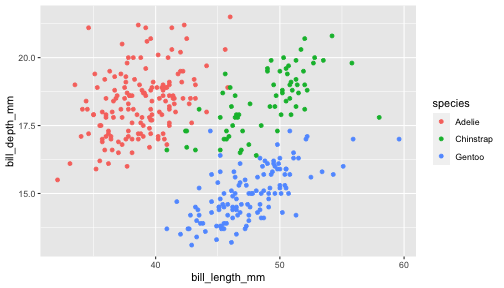
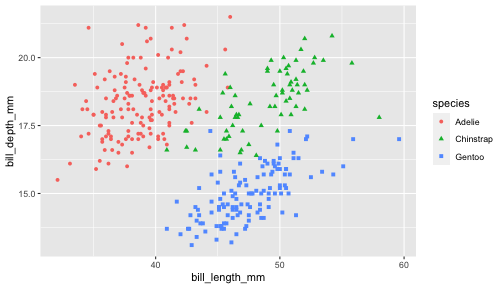
editing lecture 2 material

diff --git a/slides/lecture_2.html b/slides/lecture_2.html
@@ -19,9 +19,11 @@ class: center, middle, inverse, title-slide
 
 ## Agenda
 
+.large[
 * Overview of exploratory data analysis
 * Introduction to R and RStudio
 * Class activity: penguins!
+]
 
 ---
 
@@ -41,9 +43,11 @@ class: center, middle, inverse, title-slide
 
 --
 
+.large[
 *Understanding*:
 * Not a linear process
 * Begins with *exploratory data analysis*
+]
 
 ---
 
@@ -53,6 +57,7 @@ class: center, middle, inverse, title-slide
 &lt;img src="whole_game_highlight_understanding.png" width="500"&gt;
 ]
 
+.large[
 Goal: get familiar with the data
 
 * What does the data represent?
@@ -61,6 +66,7 @@ Goal: get familiar with the data
     * Where and when was it collected?
     * Who collected it, and what choices did they make?
     * Etc.
+]
 
 ---
 
@@ -70,11 +76,13 @@ Goal: get familiar with the data
 &lt;img src="whole_game_highlight_understanding.png" width="500"&gt;
 ]
 
+.large[
 Goal: get familiar with the data
 
 * What do the variables look like? (univariate EDA)
     * histograms, frequency tables, summary statistics, etc.
     * any outliers?
+]
     
 ---
 
@@ -84,10 +92,12 @@ Goal: get familiar with the data
 &lt;img src="whole_game_highlight_understanding.png" width="500"&gt;
 ]
 
+.large[
 Goal: get familiar with the data
 
 * How are the variables related? (multivariate EDA)
     * two-way tables, scatterplots, boxplots, etc.
+]
     
 ---
     
@@ -97,24 +107,28 @@ Goal: get familiar with the data
 &lt;img src="whole_game_highlight_understanding.png" width="500"&gt;
 ]
 
+.large[
 Goal: get familiar with the data
 
 * What relationships might we want to model?
     * generally informed by *why* we're looking at the data
+]
     
 ---
 
 ## Data: Penguins!
 
+.large[
 Data on 344 penguins from 3 species (Adelie, Chinstrap, Gentoo). Variables include
 
 * Species
 * Bill length
 * Bill depth
 * ...
+]
 
 .center[
-&lt;img src="penguin_art.png" width="500"&gt;
+&lt;img src="penguin_art.png" width="400"&gt;
 ]
 
 .footnote[
@@ -125,90 +139,104 @@ Artwork by @allison_horst
 
 ## Concept check
 
+.large[
 *Bill length* is a quantitative variable. What plot could we use to visualize the distribution of bill length in the penguins dataset?
 
 .abox[ 
-Scatterplot
+(A) Scatterplot
 ]
 
 .bbox[
-Histogram
+(B) Histogram
 ]
 
 .cbox[
-Bar chart
+(C) Bar chart
 ]
 
 .dbox[
-Pie chart
+(D) Pie chart
+]
 ]
 
 --
 
+.large[
 **Answer:** A histogram is a good choice for visualizing the distribution of a single quantitative variable.
+]
 
 ---
 
 ## Concept check
 
+.large[
 *Species* is a categorical variable. What plot could we use to visualize the distribution of species in the penguins dataset?
 
 .abox[ 
-Scatterplot
+(A) Scatterplot
 ]
 
 .bbox[
-Histogram
+(B) Histogram
 ]
 
 .cbox[
-Bar chart
+(C) Bar chart
 ]
 
 .dbox[
-Pie chart
+(D) Pie chart
+]
 ]
 
 --
 
+.large[
 **Answer:** A bar chart is a good choice for visualizing the distribution of a single categorical variable. Pie charts also work, but I find them harder to read.
+]
 
 ---
 
 ## Concept check
 
+.large[
 *Bill length* and *bill depth* are both quantitative variables. What plot could we use to visualize the relationship between these two variables?
 
 .abox[ 
-Scatterplot
+(A) Scatterplot
 ]
 
 .bbox[
-Histogram
+(B) Histogram
 ]
 
 .cbox[
-Bar chart
+(C) Bar chart
 ]
 
 .dbox[
-Box plots
+(D) Box plots
+]
 ]
 
 --
 
+.large[
 **Answer:** A scatterplot shows the relationship between two quantitative variables.
+]
 
 ---
 
 ## Tools for working with data
 
+.large[
 **R:** Statistical software for data manipulation, visualization, computing, modeling
 
 **RStudio:** Integrated development environment (IDE) that makes it easy to use R
+]
 
 .center[
-&lt;img src="r_vs_rstudio_engine_dashboard.png" width="700"&gt;
+&lt;img src="r_vs_rstudio_engine_dashboard.png" width="600"&gt;
 ]
 
 .footnote[
@@ -243,7 +271,9 @@ Source: [Modern Dive](https://moderndive.com/index.html)
 
 ## Class activity: EDA with penguins
 
+.large[
 [https://sta112-s22.github.io/class_activities/ca_lecture2.html](https://sta112-s22.github.io/class_activities/ca_lecture2.html)
+]
 
 .center[
 &lt;img src="penguin_art.png" width="600"&gt;
@@ -259,6 +289,7 @@ Artwork by @allison_horst
 
 ## Distribution of bill length
 
+.large[
 
 ```r
 penguins %&gt;%
@@ -267,6 +298,7 @@ penguins %&gt;%
 ```
 
 ![](lecture_2_files/figure-html/unnamed-chunk-1-1.png)&lt;!-- --&gt;
+]
 
 ---
 
@@ -274,14 +306,17 @@ penguins %&gt;%
 
 ![](lecture_2_files/figure-html/unnamed-chunk-2-1.png)&lt;!-- --&gt;
 
+.large[
 * Most bill lengths between 35mm and 55mm
 * Multimodal, with peaks around 40mm, 45mm, and 50mm
 * Fairly symmetric, no clear outliers
+]
 
 ---
 
 ## Aside: changing the number of bins
 
+.large[
 
 ```r
 penguins %&gt;%
@@ -289,14 +324,14 @@ penguins %&gt;%
   geom_histogram(bins = 20)
 ```
 
-![](lecture_2_files/figure-html/unnamed-chunk-3-1.png)&lt;!-- --&gt;
-
 When making histograms, it is good to try different numbers of bins. The default in `geom_histogram` is 30, but can be changed with `bins = ...`
+]
 
 ---
 
 ## Bill depth vs. bill length
 
+.large[
 
 ```r
 penguins %&gt;%
@@ -305,14 +340,17 @@ penguins %&gt;%
 ```
 
 ![](lecture_2_files/figure-html/unnamed-chunk-4-1.png)&lt;!-- --&gt;
+]
 
 ---
 
 ## Bill depth vs. bill length
 
+.large[
 ![](lecture_2_files/figure-html/unnamed-chunk-5-1.png)&lt;!-- --&gt;
 
 * There does not appear to be a relationship between bill length and bill depth
+]
 
 ---
 
@@ -322,13 +360,15 @@ penguins %&gt;%
 ```r
 penguins %&gt;%
   ggplot(aes(x = bill_length_mm, y = bill_depth_mm, 
-             color = species)) +
+             color = species, shape=species)) +
   geom_point()
 ```
 
 ![](lecture_2_files/figure-html/unnamed-chunk-6-1.png)&lt;!-- --&gt;
 
+.large[
 Within each species, there appears to be a positive, linear relationship between bill length and bill depth.
+]
 
 ---
 
@@ -336,9 +376,11 @@ Within each species, there appears to be a positive, linear relationship between
 
 &lt;img src="lecture_2_files/figure-html/unnamed-chunk-7-1.png" style="display: block; margin: auto;" /&gt;
 
+.large[
 New penguin 🐧:
 * Bill length = 50mm, bill depth = 15mm
 * Predicted species = ?
+]
     </textarea>
 <style data-target="print-only">@media screen {.remark-slide-container{display:block;}.remark-slide-scaler{box-shadow:none;}}</style>
 <script src="https://remarkjs.com/downloads/remark-latest.min.js"></script>

diff --git a/class_activities/ca_lecture2.html b/class_activities/ca_lecture2.html
@@ -114,10 +114,13 @@ Solution
   geom_point()</code></pre>
 <p>Describe the relationship between bill length and bill depth.</p>
 <ol start="6" style="list-style-type: decimal">
-<li>From Exercises 4 and 5, it looks like there could be different groups in the data. Perhaps different species of penguin? Fill in the <code>...</code> in the following code so that the points in the scatterplot are colored by penguin species:</li>
+<li>From Exercises 4 and 5, it looks like there could be different groups in the data. Perhaps different species of penguin? Fill in the <code>...</code> in the following code so that the color and shape depend on species:</li>
 </ol>
 <pre><code>penguins %&gt;%
-  ggplot(aes(x = bill_length_mm, y = bill_depth_mm, color = ...)) +
+  ggplot(aes(x = bill_length_mm, 
+  y = bill_depth_mm, 
+  color = ...,
+  shape = ...)) +
   geom_point()</code></pre>
 <p><em>Hint</em>: remember that you can find information on the variables in the dataset by running <code>?penguins</code>.</p>
 <BUTTON ONCLICK="ShowAndHide(&#39;q6_solution&#39;)">
@@ -125,14 +128,22 @@ Solution
 </BUTTON>
 <div id="q6_solution" style="display:none">
 <pre><code>penguins %&gt;%
-  ggplot(aes(x = bill_length_mm, y = bill_depth_mm, color = species)) +
+  ggplot(aes(x = bill_length_mm, 
+  y = bill_depth_mm, 
+  color = species,
+  shape = species)) +
   geom_point()</code></pre>
 </div>
 <ol start="7" style="list-style-type: decimal">
 <li>Now suppose that I give you a penguin with bill length 50mm and bill depth 15mm. What species would you guess it is?</li>
 </ol>
 <p><label for="tufte-mn-6" class="margin-toggle">⊕</label><input type="checkbox" id="tufte-mn-6" class="margin-toggle"><span class="marginnote"><span style="display: block;">This is an example of a <em>prediction</em> question, one important use for statistical models.</span></span></p>
-<p><strong>If you’re finished early:</strong> try to customize the plots! Search online to see if you can figure out how to change: * the axis labels * the theme * the colors of the points</p>
+<p><strong>If you’re finished early:</strong> try to customize the plots! Search online to see if you can figure out how to change:</p>
+<ul>
+<li>the axis labels</li>
+<li>the theme</li>
+<li>the colors of the points</li>
+</ul>
 <p>Hint 1: googling “ggplot plot labels” is a good place to start. Similar searches would be useful for the theme and colors.</p>
 <p>Hint 2: There’s a great ggplot cheat sheet: <a href="https://raw.githubusercontent.com/rstudio/cheatsheets/master/data-visualization.pdf">https://raw.githubusercontent.com/rstudio/cheatsheets/master/data-visualization.pdf</a></p>
 </div>
